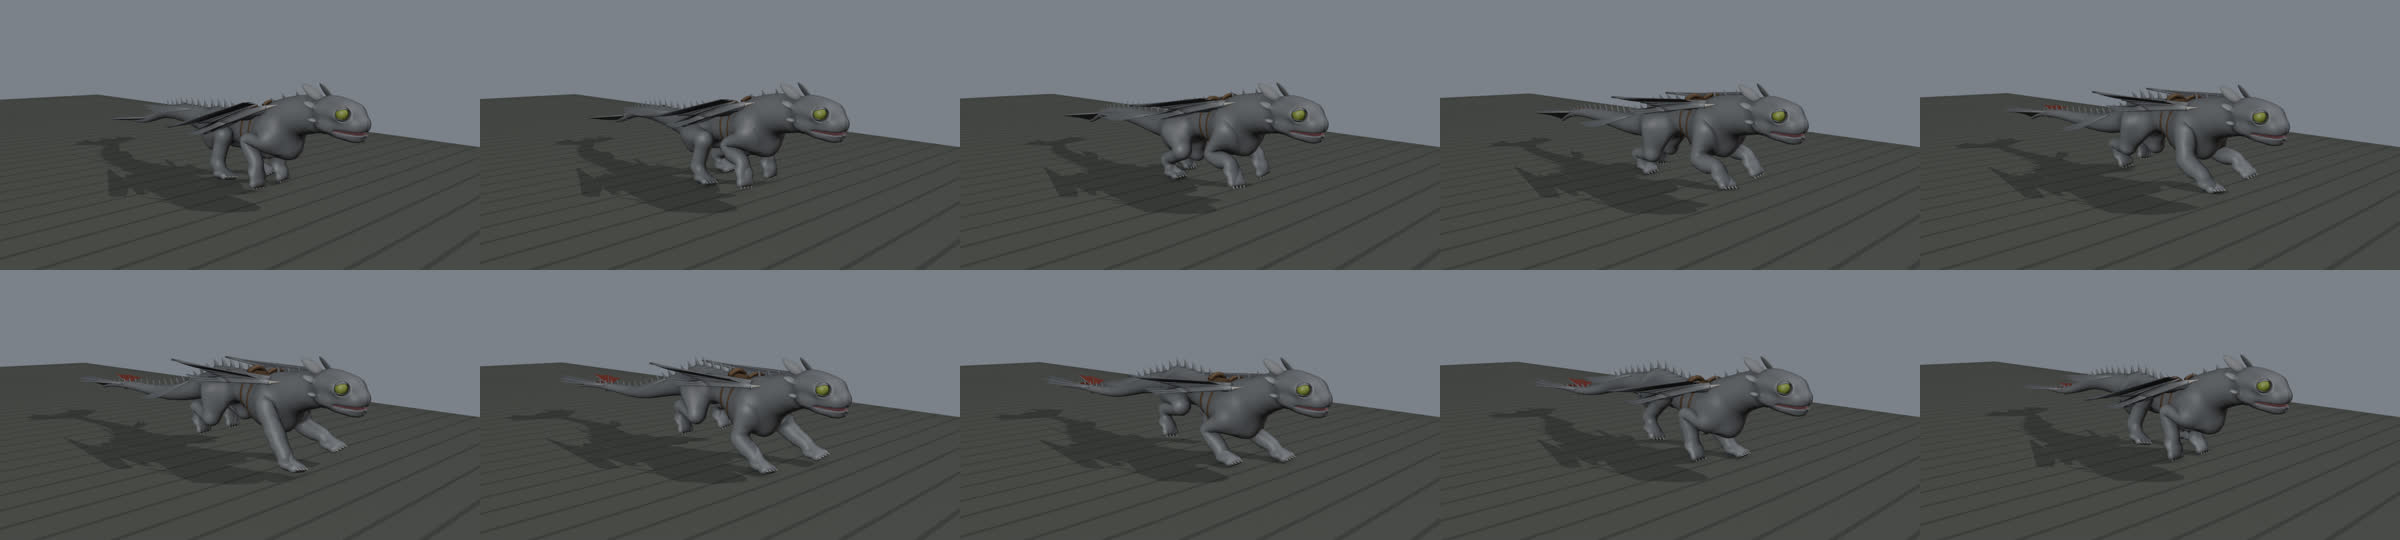
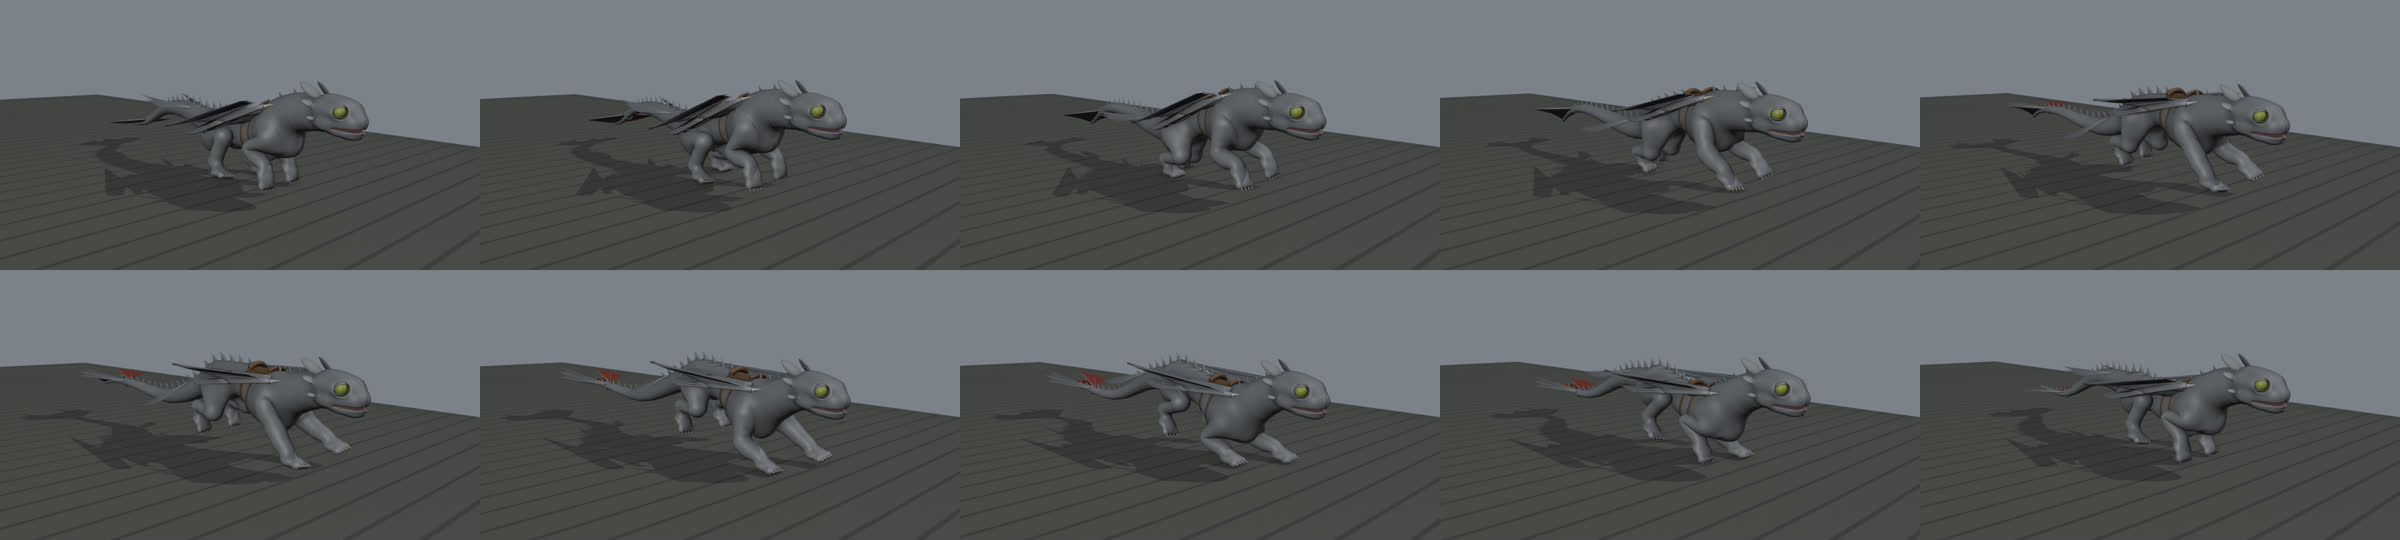
feat(loco): bigger gallop wave for more pounce; wings lie along the flexing back
- pathGain 1.8: the travelling line now rises ~22 cm and dips ~18 cm under the
  shoulders. Duty 0.24 -> 0.21 (longer flights, shorter planted sweeps); front
  contact moved forward, hind back a touch, swinging paws follow 30 % of the
  rise: all hinges inside anatomy.LIMBS, stance toe miss < 1 mm.
- Wing lift computed, not measured: the folded wings ride with the chest (a
  nose-up tilt lowers their tips by as much), so lift = chest tilt + 80 % of
  the chest -> loins line's turn from bind. Folding the wings on the posed body
  aimed them at fixed directions and misread the tilt; that measuring path is
  gone.

Claude-Session: https://claude.ai/code/session_01GjYwpcVsN48k68Do6J5W4b

diff --git a/pipeline/blender/toothless/locomotion.py b/pipeline/blender/toothless/locomotion.py
@@ -68,19 +68,19 @@ TROT = {
 # hinds swing forward through a lower, gathered flight. Height, pitch and arch are keyed over the cycle; the tail
 # counterbalances.
 GALLOP = {
-    "frames": 20, "speed": 6.0, "duty": 0.24, "offsets": (0.0, 0.65, 0.1, 0.55),
-    "front": {"centre": -1.04, "lift": 0.2, "skew": 1.5, "land": 0.35, "peel": 0.2,
-              "distal": _keys(0.24, [(0, 40), (0.5, 50), (0.85, 52)], [(0, 25), (0.28, 6), (0.6, 30), (0.85, 46)]),
-              "toes": _keys(0.24, [(0, 79), (0.7, 79)], [(0, 40), (0.3, 10), (0.7, 62), (0.88, 86)]),
-              "scapula": _keys(0.24, [(0, 20), (0.5, 0)], [(0, -12), (0.4, 10), (0.85, 21)])},
-    "hind": {"centre": 0.43, "lift": 0.22, "land": 0.3, "peel": 0.3,
-             "distal": _keys(0.24, [(0, 48), (0.5, 38), (0.88, 44)], [(0, 52), (0.3, 10), (0.62, 34), (0.875, 50)]),
-             "toes": _keys(0.24, [(0, 79), (0.68, 79)], [(0, 36), (0.3, 18), (0.69, 66), (0.875, 85)])},
+    "frames": 20, "speed": 6.0, "duty": 0.21, "offsets": (0.0, 0.65, 0.1, 0.55),
+    "front": {"centre": -1.17, "lift": 0.2, "skew": 1.5, "land": 0.35, "peel": 0.2,
+              "distal": _keys(0.21, [(0, 40), (0.5, 50), (0.85, 52)], [(0, 25), (0.28, 6), (0.6, 30), (0.85, 46)]),
+              "toes": _keys(0.21, [(0, 79), (0.7, 79)], [(0, 40), (0.3, 10), (0.7, 62), (0.88, 86)]),
+              "scapula": _keys(0.21, [(0, 20), (0.5, 0)], [(0, -12), (0.4, 10), (0.85, 21)])},
+    "hind": {"centre": 0.45, "lift": 0.22, "land": 0.3, "peel": 0.3,
+             "distal": _keys(0.21, [(0, 48), (0.5, 38), (0.88, 44)], [(0, 52), (0.3, 10), (0.62, 34), (0.875, 50)]),
+             "toes": _keys(0.21, [(0, 79), (0.68, 79)], [(0, 36), (0.3, 18), (0.69, 66), (0.875, 85)])},
     "body": {"height": 0.91, "lean": -0.045, "smooth": 2, "bob": (0.0, 1, 0.0), "pitch": (0.0, 1, 0.0),
              # the line through the sky: its height offset (m) under the neck base over the stride. Every spine and
              # tail joint passes through the same heights later, delayed by its distance behind / the stride length.
-             "path": [(0.0, 0.06), (0.22, 0.12), (0.47, 0.02), (0.72, -0.1), (0.9, -0.02)],
-             "roll": 0.012, "flex": 0.02, "tail": 0.06, "tailLift": 0.0, "neckDrop": 0.07, "headLevel": 0.3, "follow": 0.5},
+             "path": [(0.0, 0.06), (0.22, 0.12), (0.47, 0.02), (0.72, -0.1), (0.9, -0.02)], "pathGain": 1.8,
+             "roll": 0.012, "flex": 0.02, "tail": 0.06, "tailLift": 0.0, "neckDrop": 0.07, "headLevel": 0.3, "follow": 0.3},
 }
 CYCLES = {"walk": WALK, "trot": TROT, "gallop": GALLOP}
 
@@ -163,7 +163,7 @@ def _line(cyc, t, y):
     """The travelling line's height offset at rest-y `y` (m, +Y behind) and cycle phase t: what the neck base had
     (y - LEAD_Y) / stride of a cycle earlier. The wave stands still in the world while the body runs through it."""
     stride = cyc["speed"] * cyc["frames"] / FPS
-    return _chan(cyc["body"], "path", t - (y - LEAD_Y) / stride)
+    return cyc["body"].get("pathGain", 1.0) * _chan(cyc["body"], "path", t - (y - LEAD_Y) / stride)
 
 
 def leg_targets(cyc, kind, p, off=0.0):
@@ -425,38 +425,12 @@ def _path_body(rig, cyc, t, bones):
     for n in ("neck_01", "neck_02", "neck_03", "neck_04", "head"):
         rig.pose.bones[n].rotation_euler = bones[n]
     bpy.context.view_layer.update()
-    lift = _wing_lift(rig)
-    return (zp, pitch), lift
-
-
-_WING_REST = []
-
-
-def _wing_elev(rig):
-    """Folded wing humerus elevation going back (degrees) on the current pose, and the loins -> chest line's."""
-    import library as LIB
-    LIB.apply_wings(rig, 1.0, 0.0, 0.0)
-    bpy.context.view_layer.update()
-    w = rig.pose.bones["wing_humerus_L"]
-    a, c = rig.pose.bones["spine_01"].head, rig.pose.bones["chest"].head
-    d = w.tail - w.head
-    return math.degrees(math.atan2(d.z, d.y)), math.degrees(math.atan2(a.z - c.z, a.y - c.y))
-
-
-def _wing_lift(rig):
-    """The lift (rad) that holds the folded wings at their bind angle to the horizon however the chest tips: the
-    travelling line keeps the body's mean line level, so the bundle rides flat while the back flows under it
-    (measured on the posed rig, not estimated)."""
-    if not _WING_REST:
-        saved = {pb.name: pb.matrix_basis.copy() for pb in rig.pose.bones}
-        import rig as R
-        R.reset_pose(rig)
-        _WING_REST.append(_wing_elev(rig)[0])
-        for pb in rig.pose.bones:
-            pb.matrix_basis = saved[pb.name]
-        bpy.context.view_layer.update()
-    w = _wing_elev(rig)[0]
-    return max(-0.25, min(0.25, math.radians(_WING_REST[0] - w)))
+    # the folded wings ride with the chest (a nose-up tilt lowers their tips by as much); lift them so their angle
+    # follows 80 % of the chest -> loins line's turn from bind, laying the bundle along the back
+    lo, ch = rig.pose.bones["spine_01"].head, rig.pose.bones["chest"].head
+    rlo, rch = data["spine_01"].head_local, data["chest"].head_local
+    back = math.atan2(lo.z - ch.z, lo.y - ch.y) - math.atan2(rlo.z - rch.z, rlo.y - rch.y)   # + = loins higher
+    return (zp, pitch), max(-0.4, min(0.4, 0.8 * back + chest))
 
 
 def _level_head(rig, bones, target):
